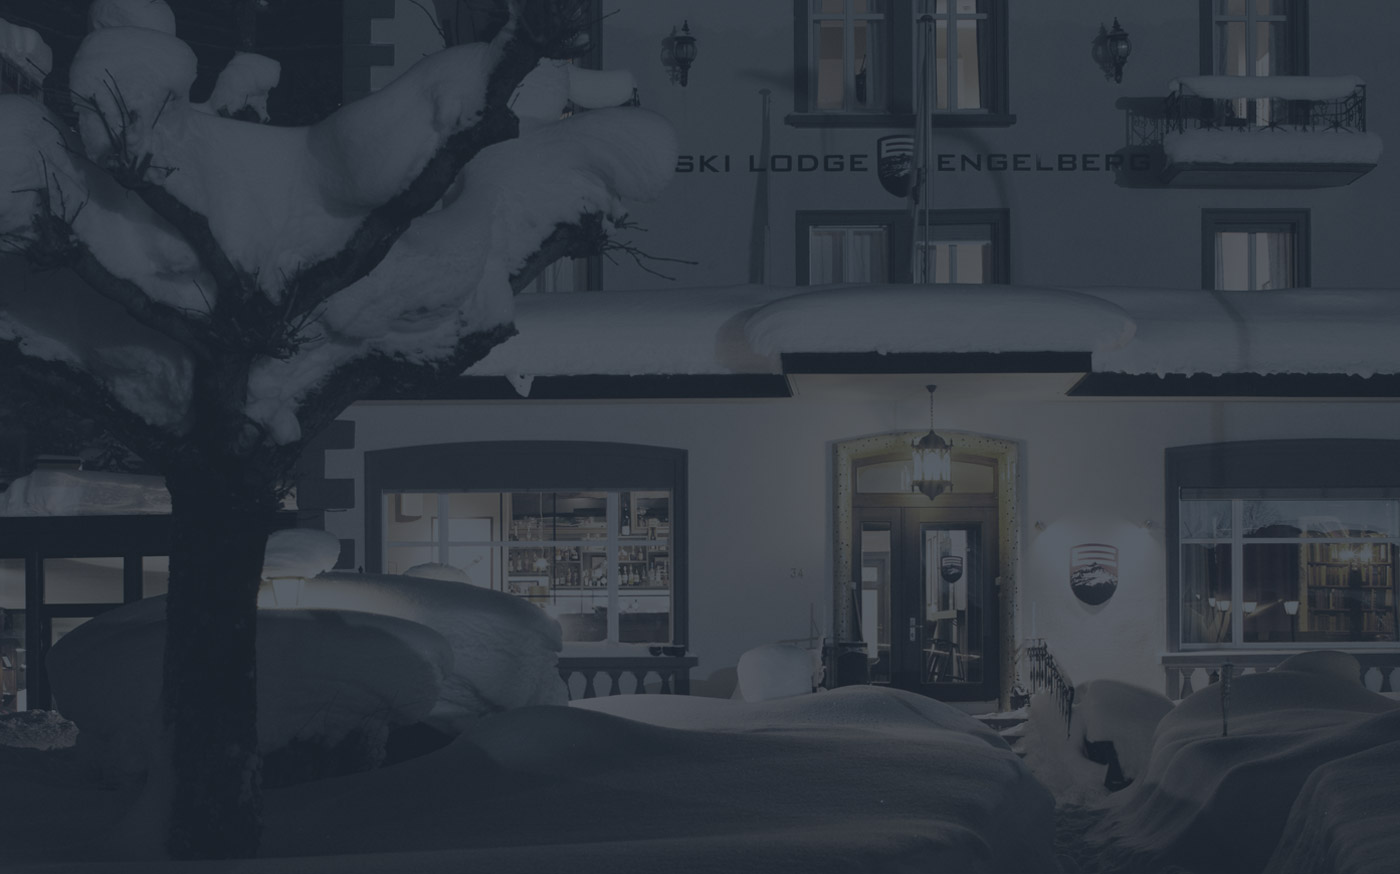
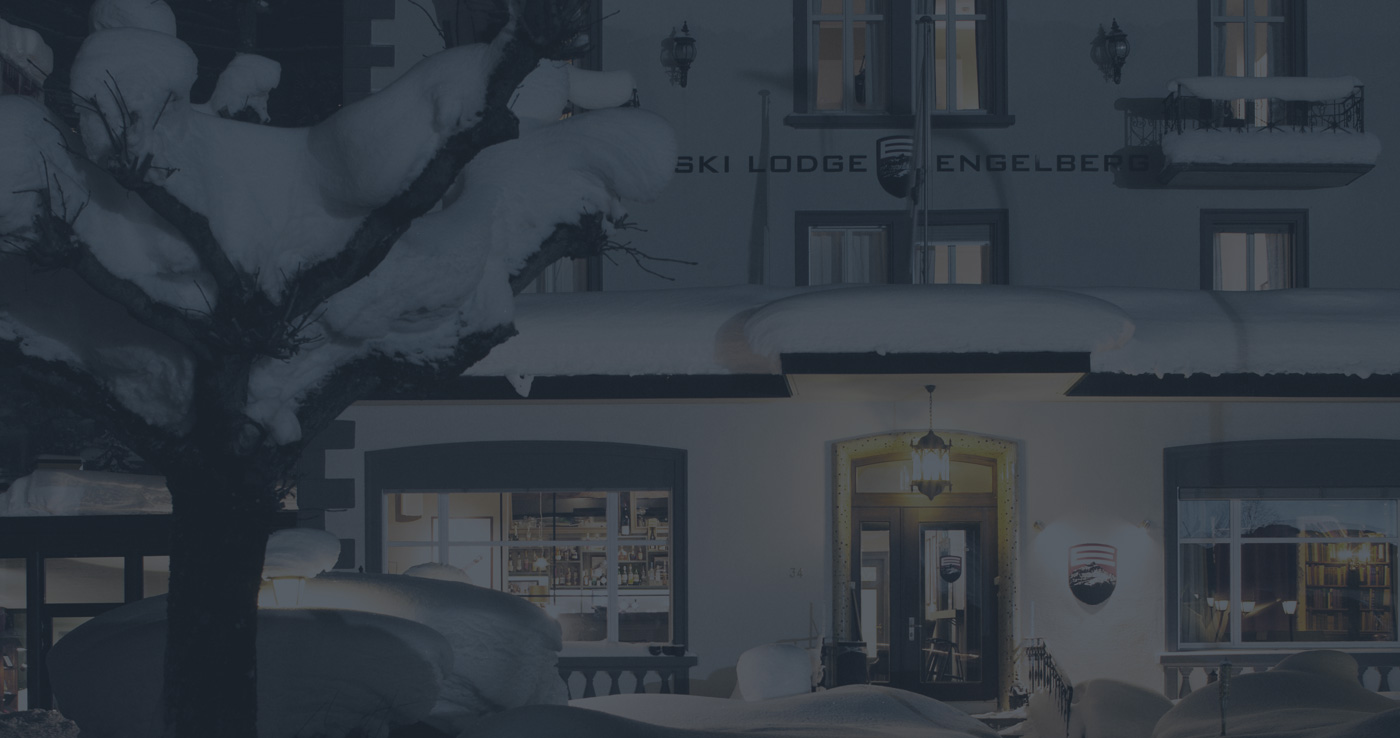
Change lodgen

diff --git a/resources/views/app.blade.php b/resources/views/app.blade.php
@@ -546,8 +546,8 @@
 		$('.boende').parallax({
 			imageSrc: './img/lodgen.jpg',
 			naturalWidth: 1400,
-			naturalHeight: 874,
-			position: 'center top',
+			naturalHeight: 738,
+			position: 'left top',
 			speed: 0.3
 		});
 
